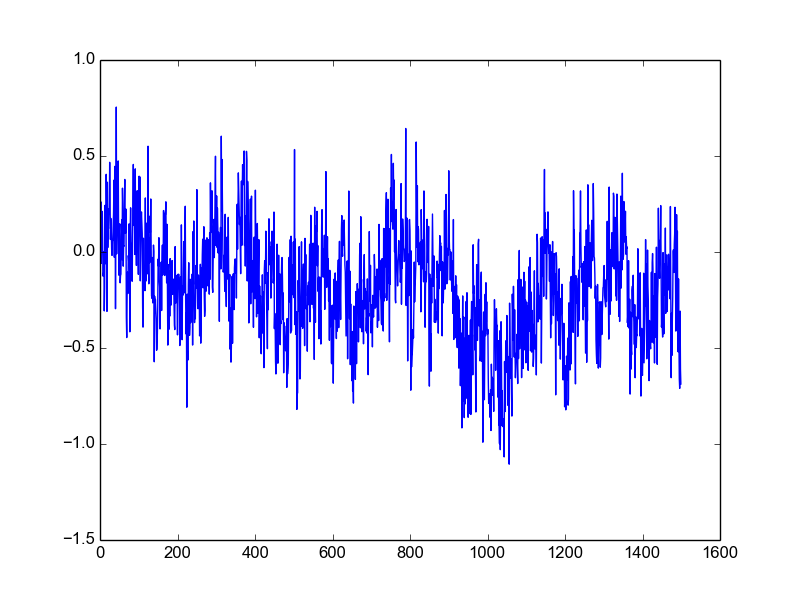
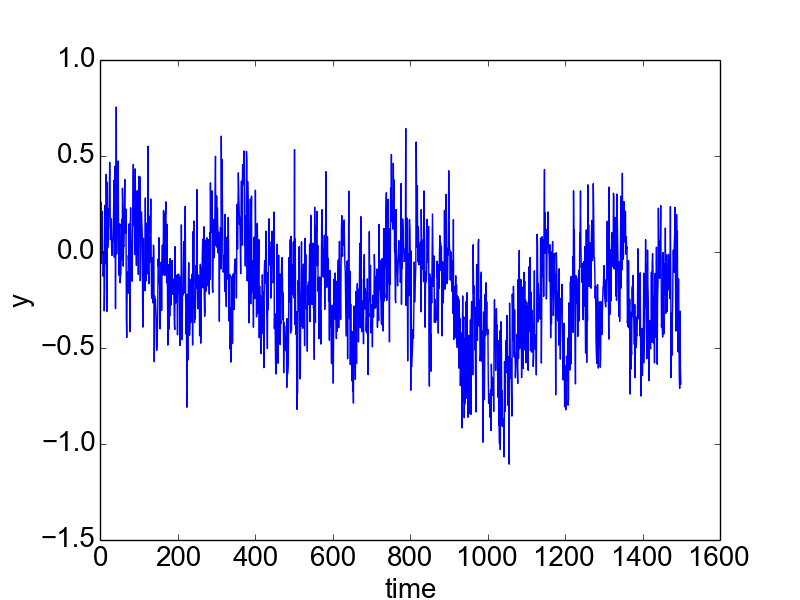
old and new graphs

diff --git a/stack.py b/stack.py
@@ -1,6 +1,7 @@
 import numpy as np
 import scipy.signal as sci_sig
 import matplotlib.pyplot as plt
+import matplotlib
 import collections
 import scipy.signal as sci_sig
 import operator
@@ -184,6 +185,8 @@ def spectrum_fbm():
     f, Pxx = sci_sig.periodogram(fbm)
     plt.close()
     plt.loglog(f, np.sqrt(Pxx))
+    plt.xlabel("frequency")
+    plt.ylabel("PSD")
     plt.savefig("spectrum_fbm")
 
 def spectrum_logistic():
@@ -191,6 +194,8 @@ def spectrum_logistic():
     f, Pxx = sci_sig.periodogram(logit)
     plt.close()
     plt.loglog(f, np.sqrt(Pxx))
+    plt.xlabel("frequency")
+    plt.ylabel("PSD")
     plt.savefig("spectrum_logistic")
 
 def spectrum_sinusoid():
@@ -198,6 +203,8 @@ def spectrum_sinusoid():
     f, Pxx = sci_sig.periodogram(sinusoid)
     plt.close()
     plt.loglog(f, np.sqrt(Pxx))
+    plt.xlabel("frequency")
+    plt.ylabel("PSD")
     plt.savefig("spectrum_sinusoid")
 
 def spectrum_vr():
@@ -205,6 +212,8 @@ def spectrum_vr():
     f, Pxx = sci_sig.periodogram(vr)
     plt.close()
     plt.loglog(f, np.sqrt(Pxx))
+    plt.xlabel("frequency")
+    plt.ylabel("PSD")
     plt.savefig("spectrum_vr")
 
 
@@ -212,17 +221,23 @@ def plot_fbm():
     fbm = np.load("quick_fbm.npy")[0:1500]
     plt.close()
     plt.plot(fbm)
+    plt.xlabel("time")
+    plt.ylabel("y")
     plt.savefig("plot_fbm")
 
 def plot_logistic():
     logit = gen_logistic_map(1500)
     plt.close()
     plt.plot(logit)
+    plt.xlabel("time")
+    plt.ylabel("y")
     plt.savefig("plot_logistic")
 
 def plot_sinusoid():
     sinusoid = np.sin(np.linspace(0, 40 * np.pi, 1500))
     plt.close()
+    plt.xlabel("time")
+    plt.ylabel("y")
     plt.plot(sinusoid)
     plt.savefig("plot_sinusoid")
 
@@ -230,6 +245,8 @@ def plot_vr():
     vr = open_vr()
     plt.close()
     plt.plot(vr)
+    plt.xlabel("time")
+    plt.ylabel("y")
     plt.savefig("plot_vr")
 
 def graphify(ts):
@@ -243,7 +260,10 @@ def graphify(ts):
 def nx_graphify(ts):
     net = nx.DiGraph()
     graph, _, _ = graphify(ts)
-    print graph
+    for tail, heads in graph.iteritems():
+        for head in heads:
+            net.add_edge(tail, head)
+    return net
 
 def plot_stack_deg(ts, name):
     graph, _, _ = graphify(ts)
@@ -253,8 +273,10 @@ def plot_stack_deg(ts, name):
         degrees.append(degree)
     degrees = sorted(degrees, reverse=True)
     plt.close()
+    plt.xlabel("rank")
+    plt.ylabel("degree")
     plt.loglog(degrees)
-    plt.show()
+    plt.savefig(name)
 
 def degree_fbm():
     fbm = np.load("quick_fbm.npy")[0:1500]
@@ -263,44 +285,58 @@ def degree_fbm():
 def degree_logistic():
     logit = gen_logistic_map(1500)
     plot_stack_deg(logit, "degrees_logit")
-    #######################
 
 def degree_sinusoid():
     sinusoid = np.sin(np.linspace(0, 2 * np.pi, 1500))
     plot_stack_deg(sinusoid, "degrees_sinusoid")
-    #######################
 
 def degree_vr():
     vr = open_vr()
     plot_stack_deg(vr, "degrees_vr")
-    #######################
 
-def clustering_fbm():
+def stats_fbm():
     fbm = np.load("quick_fbm.npy")[0:1500]
-    plt.close()
-    #######################
+    net = nx_graphify(fbm)
+    print "fbm path length: ", nx.average_shortest_path_length(net)
+    print "fbm clustering: ", nx.average_clustering(net.to_undirected())
 
-def clustering_logistic():
+def stats_logistic():
     logit = gen_logistic_map(1500)
-    plt.close()
-    #######################
+    net = nx_graphify(logit)
+    print "logit path length: ", nx.average_shortest_path_length(net)
+    print "logit clustering: ", nx.average_clustering(net.to_undirected())
 
-def clustering_sinusoid():
+def stats_sinusoid():
     sinusoid = np.sin(np.linspace(0, 40 * np.pi, 1500))
-    plt.close()
-    #######################
+    net = nx_graphify(sinusoid)
+    print "sinusoid path length: ", nx.average_shortest_path_length(net)
+    print "sinusoid clustering: ", nx.average_clustering(net.to_undirected())
 
-def clustering_vr():
+def stats_vr():
     vr = open_vr()
-    plt.close()
-    #######################
+    net = nx_graphify(vr)
+    print "vr path length: ", nx.average_shortest_path_length(net)
+    print "vr clustering: ", nx.average_clustering(net.to_undirected())
+
+def inverse_stack():
+    vr = open_vr()
+    _, resampled, _ = graphify(vr)
+    plt.plot(resampled)
+    plt.savefig("resampled_stack")
 
 if __name__ == "__main__":
-    #degree_fbm()
-    #degree_logistic()
-    #degree_sinusoid()
-    #degree_vr()
-    #clustering_fbm()
-    #clustering_logistic()
-    #clustering_sinusoid()
-    #clustering_vr()
+    font = {'size': 20}
+    matplotlib.rc('font', **font)
+    plot_fbm()
+    plot_logistic()
+    plot_sinusoid()
+    plot_vr()
+    degree_fbm()
+    degree_logistic()
+    degree_sinusoid()
+    degree_vr()
+    spectrum_fbm()
+    spectrum_logistic()
+    spectrum_sinusoid()
+    spectrum_vr()
+    inverse_stack()
